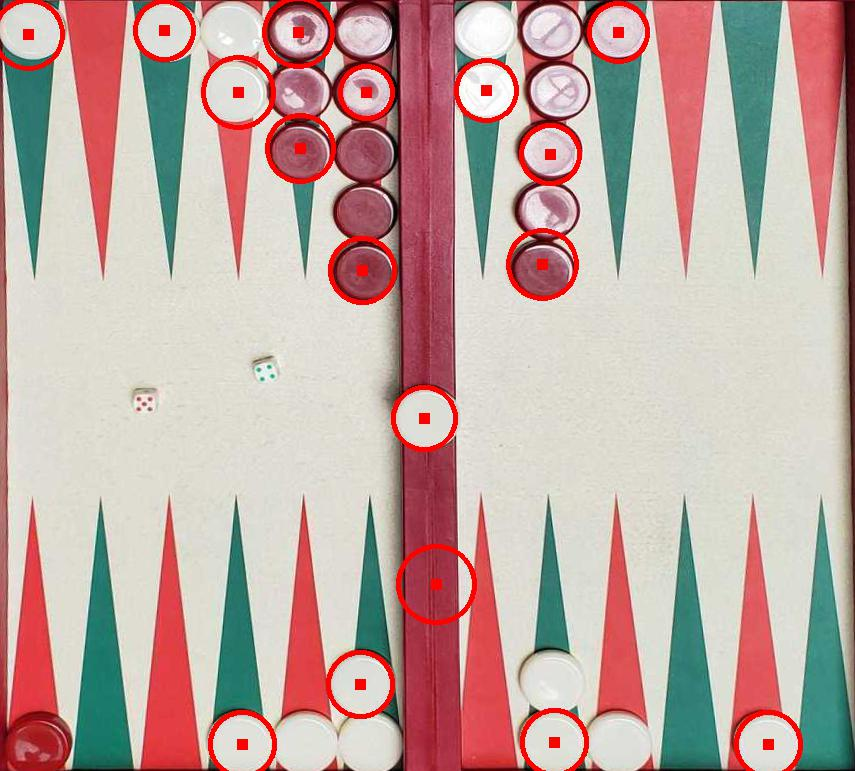
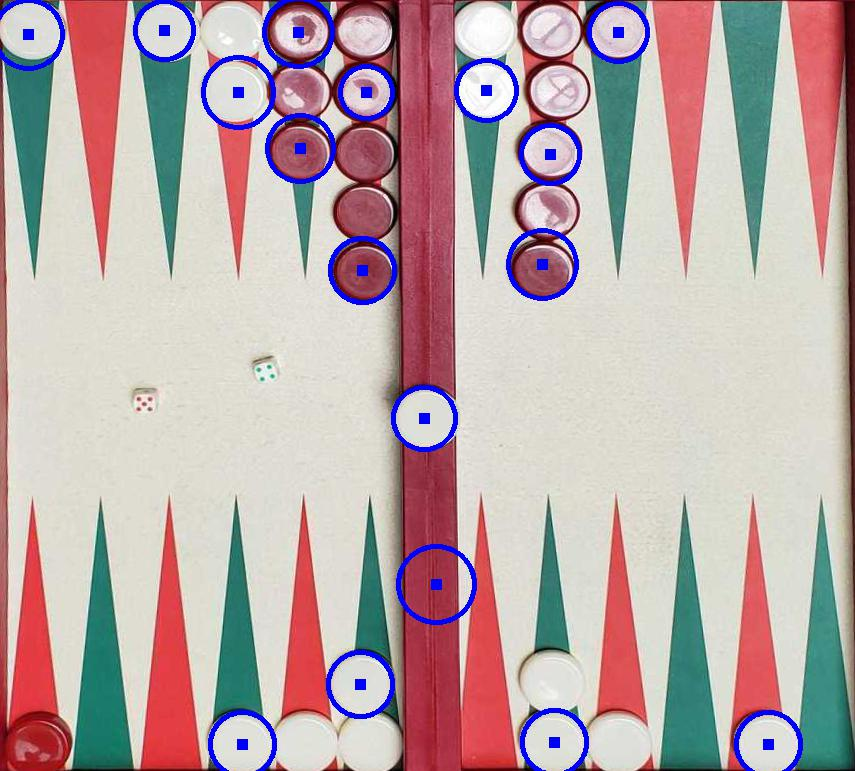
added mean radii calculation

diff --git a/warp_and_find_checker.py b/warp_and_find_checker.py
@@ -16,7 +16,7 @@ args = parser.parse_args()
 input_path = args.input_path
 output_path = args.output_path
 
-display = False # do you want to display one image?
+display = True # do you want to display one image?
 which_image = 1 # which image to display
 
 
@@ -40,6 +40,7 @@ pip_lengths = [x['canonical_board']['pip_length_to_board_height'] for x in infos
 if display:
     # visualize one input image
     cv2.imshow('one input image', images[0])
+    cv2.imwrite('input_image.png', images[0])
 
 
 # remove perspective
@@ -75,12 +76,13 @@ grays = [cv2.cvtColor(img, cv2.COLOR_BGR2GRAY) for img in no_persps]
 if display:
     # visualize one image with the perspective removed in grayscale
     cv2.imshow('one perspectiveless image', grays[which_image])
+    cv2.imwrite('perspective_removed.png', grays[which_image])
 
 
 # account for distortion of image
 resizeds = []
 for i, img in enumerate(grays):
-    scale_percent_x = 100
+    scale_percent_x = 100 # !!! need to calculate this somehow
     # scale_percent_x = board_widths[i] * 100 #- 20 # percent of original size
     # print(scale_percent_x)
     width = int(img.shape[1] * scale_percent_x / 100)
@@ -94,6 +96,9 @@ for i, img in enumerate(grays):
 processed = []
 processing = []
 centres = []
+radii = []
+radii_stds = []
+# radii_maes = []
 for i, gray in enumerate(resizeds):
     
     for _ in range(9):
@@ -111,23 +116,39 @@ for i, gray in enumerate(resizeds):
     # circles = cv2.HoughCircles(gray, cv2.HOUGH_GRADIENT, 1, 80, param1=50, param2=60, minRadius=20, maxRadius=90)
     circles = cv2.HoughCircles(gray, cv2.HOUGH_GRADIENT, 1, 80, param1=50, param2=20, minRadius=20, maxRadius=60)
     centres.append([])
+    radii.append([])
     if circles is not None:
         print(len(circles[0]), 'circles found')
         circles = np.round(circles[0, :]).astype("int")
         for (x, y, r) in circles:
-            cv2.circle(output, (x, y), r, (255, 0, 0), 4)
-            cv2.rectangle(output, (x - 5, y - 5), (x + 5, y + 5), (255, 0, 0), -1)
+            cv2.circle(output, (x, y), r, (0, 0, 255), 4)
+            cv2.rectangle(output, (x - 5, y - 5), (x + 5, y + 5), (0, 0, 255), -1)
             centres[i].append((x, y))
+            radii[i].append(r)
+        radii_stds.append(np.std(radii[i]))
+        radii[i] = np.median(radii[i])
     else:
         print('0 circles found')
     processed.append(output)
     processing.append(gray)
     print('image', i, 'processed')
     # break
+    
+# def mae(dataset, mean):
+#     n = len(dataset)
+#     mae = 0
+#     for i in range(len(dataset)):
+#         mae += np.abs(dataset[i] - mean)
+#     mae /= n
+#     return mae
        
 if display:     
     cv2.imshow('one image with circles', processed[which_image])
+    cv2.imwrite('circle_detection.png', processed[which_image])
     cv2.imshow('what the algorithm sees', processing[which_image])
+    cv2.imwrite('what_the_algorithm_sees.png', processing[which_image])
+    print(radii)
+    print(radii_stds)
 
 
 # output results
@@ -163,3 +184,10 @@ for i in range(len(image_files)):
     out_json = json.dumps(out_dir, indent=4)
     with open(output_filename, 'w') as f:
         f.write(out_json)
+        
+def cl():
+    cv2.destroyWindow('one input image')
+    cv2.destroyWindow('one perspectiveless image')
+    cv2.destroyWindow('one image with circles')
+    cv2.destroyWindow('what the algorithm sees')
+    
